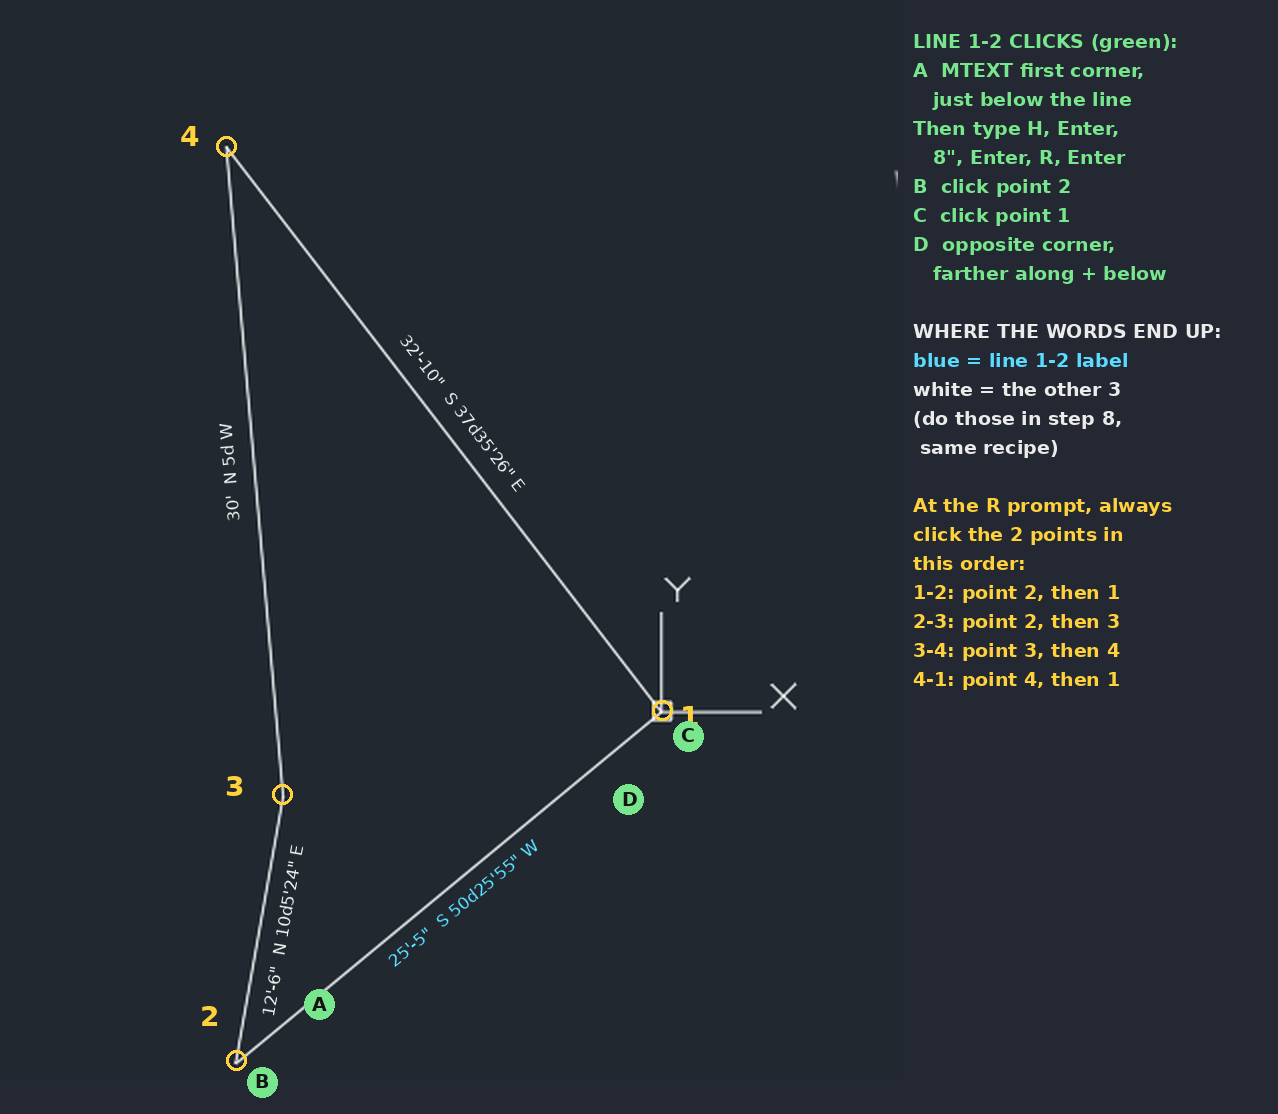
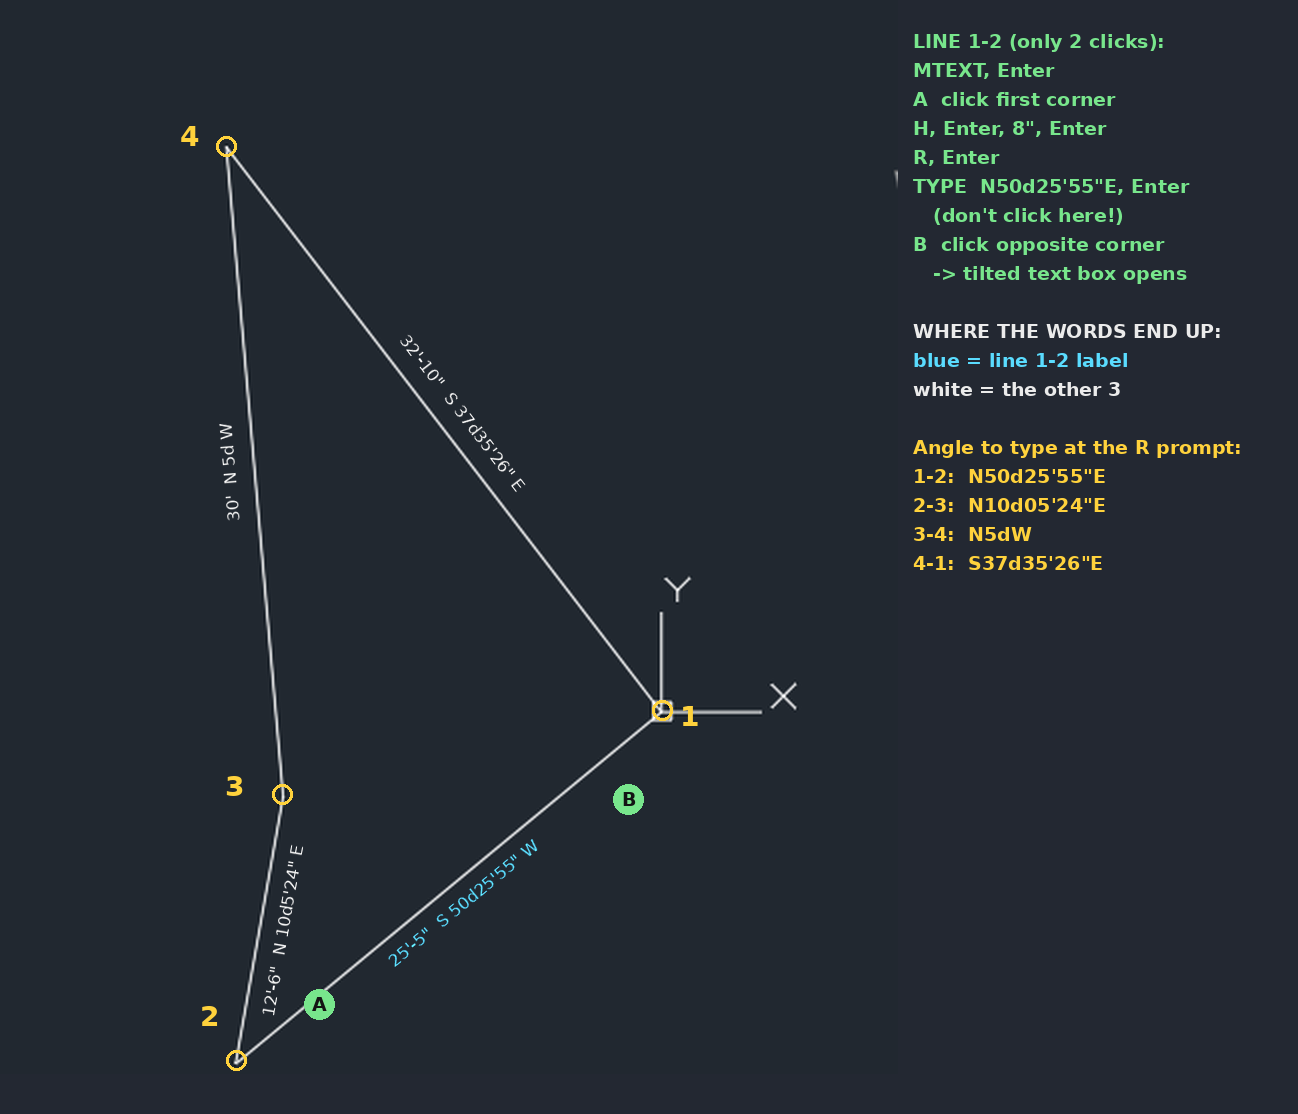
Lab 7: type MTEXT rotation as a bearing instead of clicking
Claude-Session: https://claude.ai/code/session_01G9v136dCGB86C9xxpa92M1

diff --git a/lab7_guide/lab7_steps.html b/lab7_guide/lab7_steps.html
@@ -274,19 +274,19 @@ const TABS=[
   ["T","C","Closes back to point 1. AutoCAD works out line 4-1."],
   ["T","ZOOM",""],["T","E","Fills the screen."]],
   check:"The shape matches the 1a picture above."},
- {t:"Label line 1-2 with distance and bearing",g:"Text height 8\". The R option turns the text to follow the line; click the endpoints in reading order.",r:[
+ {t:"Label line 1-2 with distance and bearing",g:"Text height 8\". The R option turns the text to follow the line. Type the rotation as a bearing in reading direction.",r:[
   ["T","MTEXT","Asks for the first corner"],
   ["Do","Click just <b>below the middle</b> of line 1-2","Asks for the opposite corner"],
   ["T","H",""],["T","8\"","Text height (prints at 1/8\")"],
   ["T","R","Asks for the rotation angle"],
-  ["Do","Click <b>point 2</b>, then <b>point 1</b> (endpoint snaps)","The text will follow the line."],
-  ["Do","Click a spot about the length of the line away, to set the box size","A text box opens."],
+  ["T","N50d25'55\"E","Type the angle as a bearing (point 2 toward point 1). Don't click: one click here sets the angle from your first corner."],
+  ["Do","Click farther along the line and a little below it, to set the box size","A tilted text box opens."],
   ...FIELD_LEN],
   check:"Shows <b>25'-5\"  S 50d25'55\" W</b> along the line."},
  {t:"Label lines 2-3, 3-4 and 4-1",g:"Same as the last step, for each line. Only the endpoint order changes.",r:[
-  ["Do","<b>Line 2-3:</b> at the R prompt click <b>point 2</b>, then <b>point 3</b>","Shows 12'-6\"  N 10d5'24\" E"],
-  ["Do","<b>Line 3-4:</b> click <b>point 3</b>, then <b>point 4</b>","Shows 30'  N 5d W"],
-  ["Do","<b>Line 4-1:</b> click <b>point 4</b>, then <b>point 1</b>","Shows 32'-10\"  S 37d35'26\" E"]],
+  ["Do","<b>Line 2-3:</b> at the R prompt type <code>N10d05'24\"E</code>","Shows 12'-6\"  N 10d5'24\" E"],
+  ["Do","<b>Line 3-4:</b> at the R prompt type <code>N5dW</code>","Shows 30'  N 5d W"],
+  ["Do","<b>Line 4-1:</b> at the R prompt type <code>S37d35'26\"E</code>","Shows 32'-10\"  S 37d35'26\" E"]],
   check:"4-1 should read <b>32'-10\" S 37d35'26\" E</b>. If yours differs, one of the first 3 lines was typed wrong."},
  {t:"Point numbers 1–4",r:[
   ["T","TEXT","Asks for the start point"],
